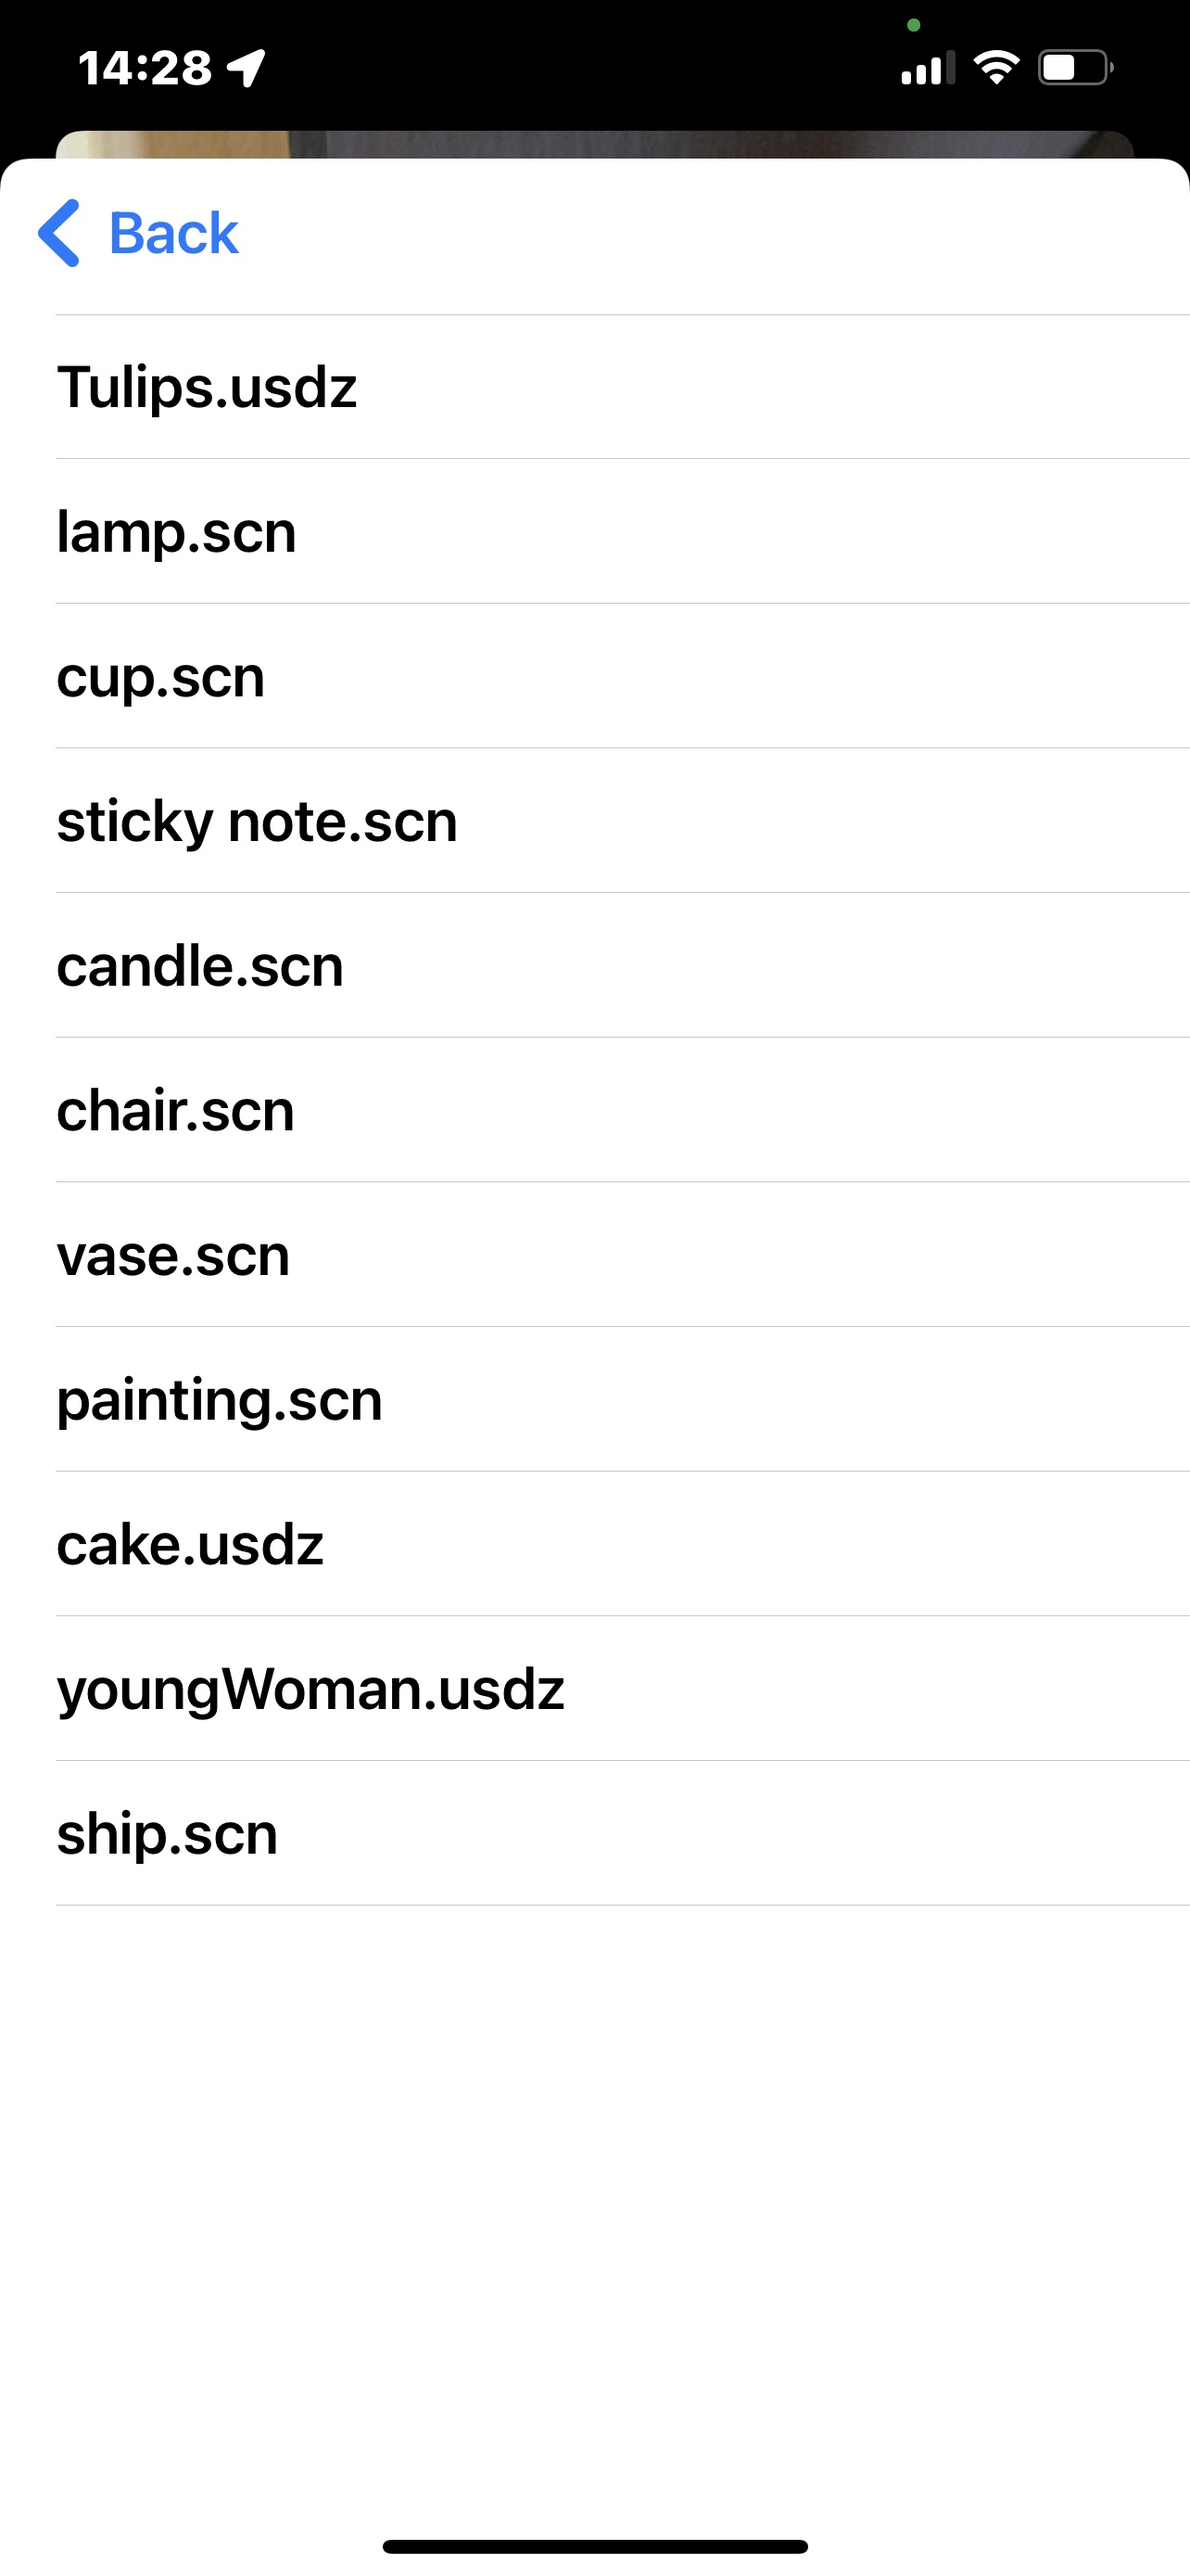
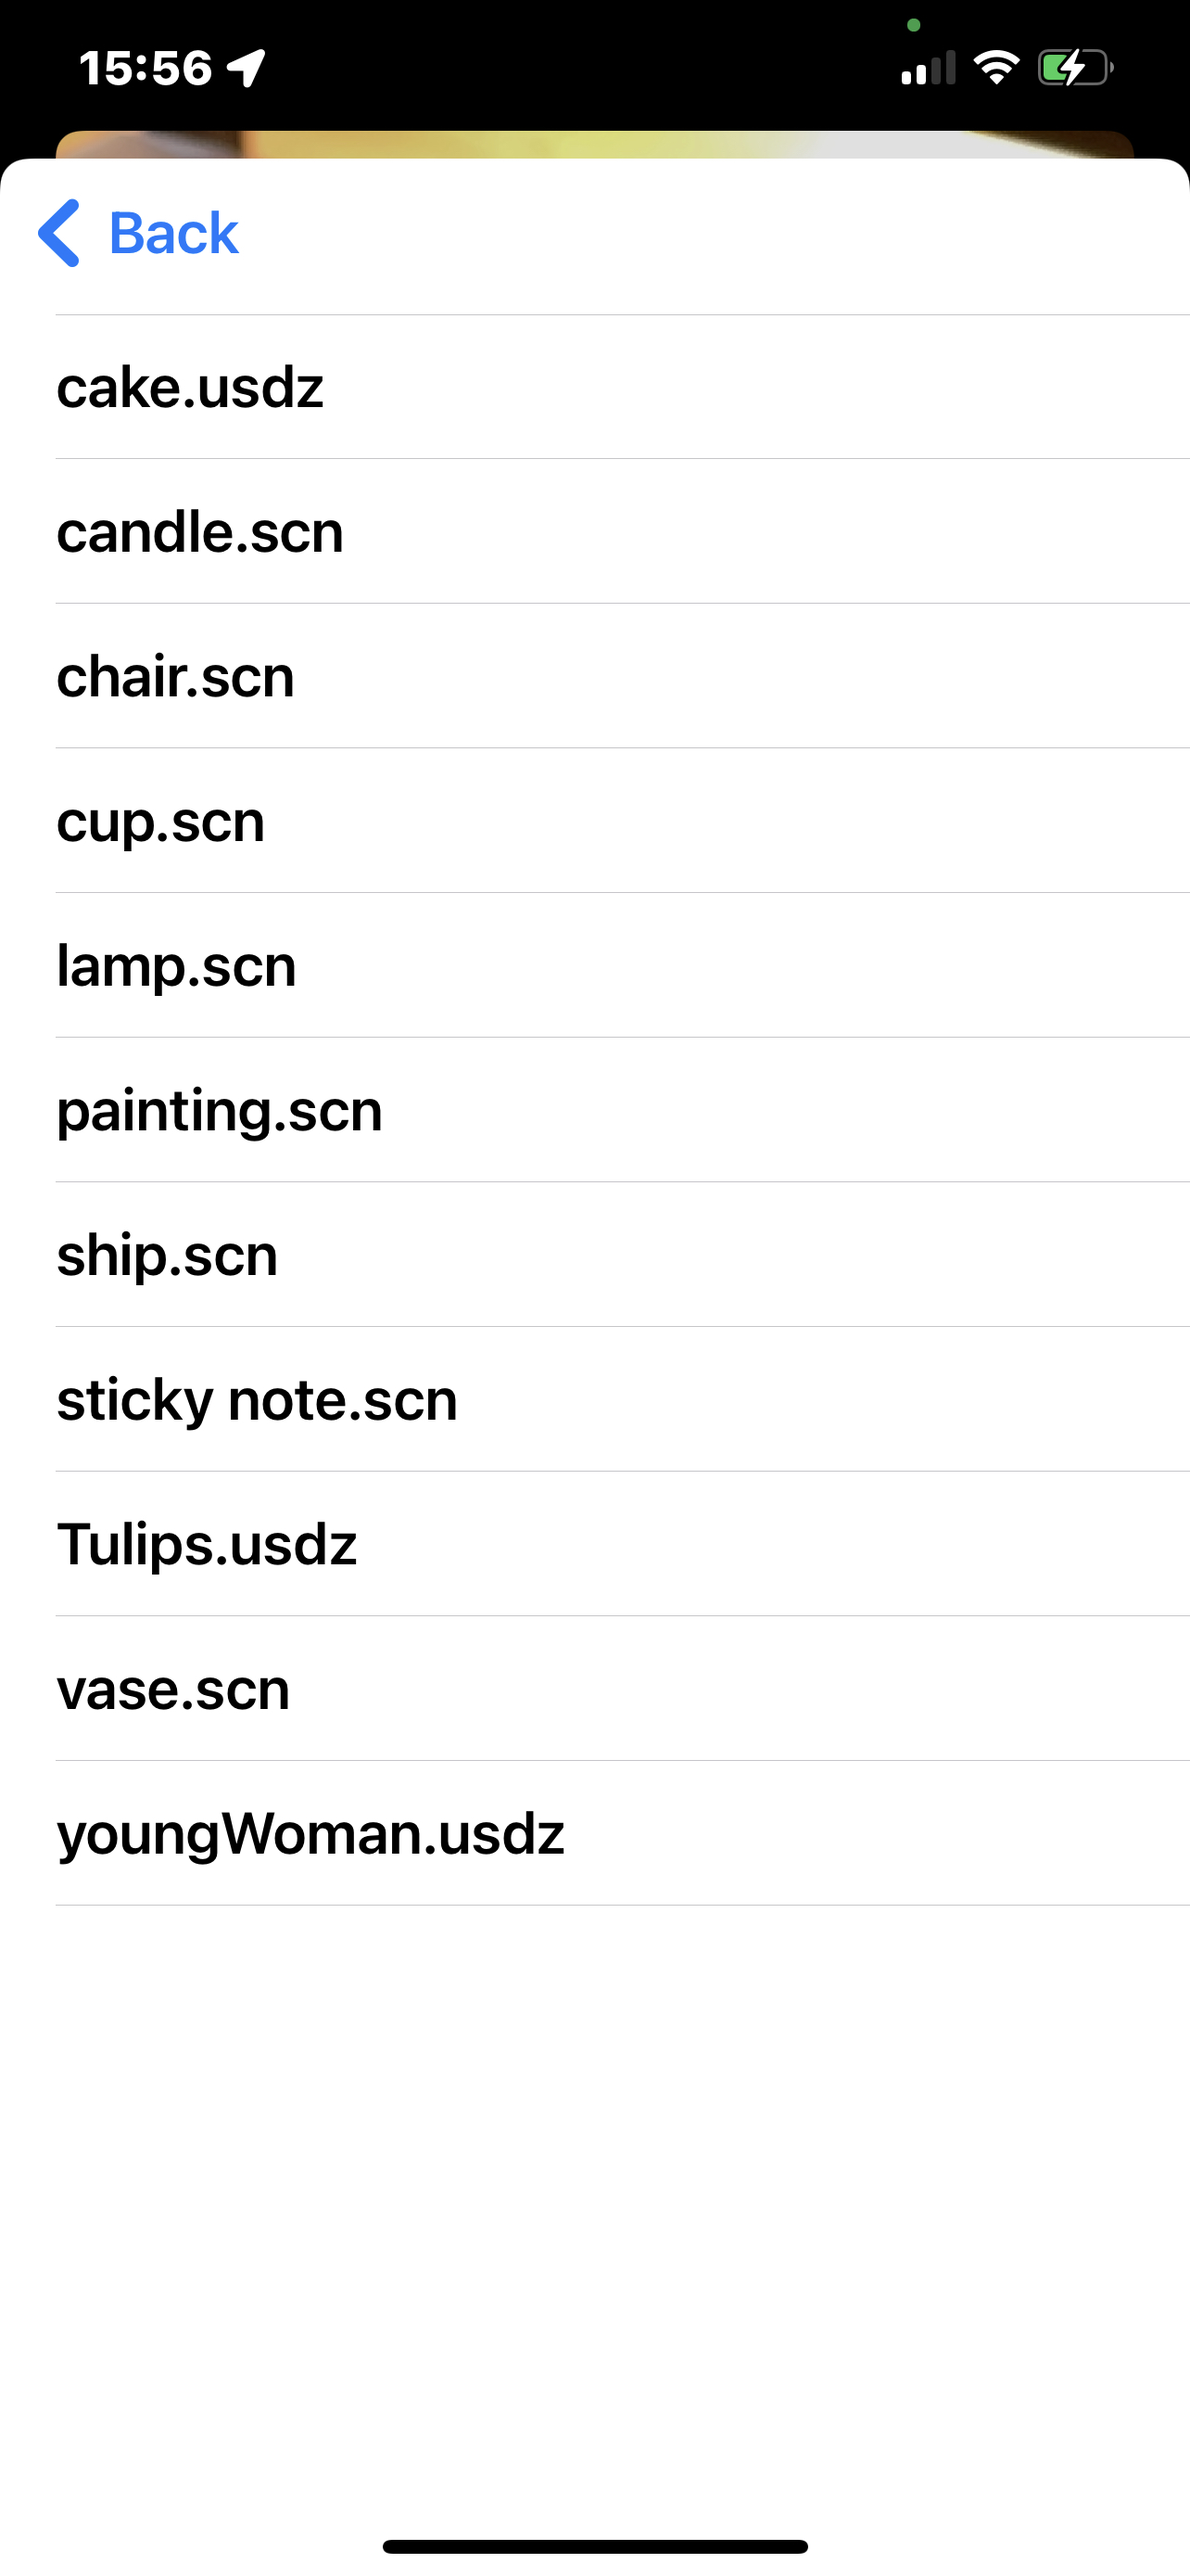
Add sort function for option container view controller in the select scene option, add screenshots and update readme file

diff --git a/ARKit-Drawing/Options/OptionsContainerViewController.swift b/ARKit-Drawing/Options/OptionsContainerViewController.swift
@@ -79,7 +79,11 @@ class OptionsContainerViewController: UIViewController, UINavigationControllerDe
         }()
         
         let options = availableScenes.map { Option(name: $0, option: $0, showsDisclosureIndicator: false) }
-        let selector = OptionSelectorViewController(options: options)
+        
+        // Sort options by alphabet
+        let sortedListOptions = options.sorted(by: { $0.name.lowercased() < $1.name.lowercased() })
+        
+        let selector = OptionSelectorViewController(options: sortedListOptions)
         selector.optionSelectionCallback = { [unowned self] name in
             let nameWithoutExtension = name.replacingOccurrences(of: ".scn", with: "")
             // Add .usdz file format support

diff --git a/README.md b/README.md
@@ -7,3 +7,13 @@ This app can painting to horizontal desks by different virtual objects and stays
 - fix pivot point to ground surface from bounding box ground coordinate.
 - add usdz file support
 - fixed incorrect position model on 180 degrees rotate image anchor.
+- add sort function for option container view controller in the select scene option
+
+## Screenshots:
+![Screenshot1](/Screens/Screen00001.jpg)
+![Screenshot2](/Screens/Screen00002.jpg)
+![Screenshot3](/Screens/Screen00003.jpg)
+![Screenshot4](/Screens/Screen00004.jpg)
+![Screenshot5](/Screens/Screen00005.jpg)
+![Screenshot6](/Screens/Screen00006.jpg)
+![Screenshot7](/Screens/Screen00007.jpg)
